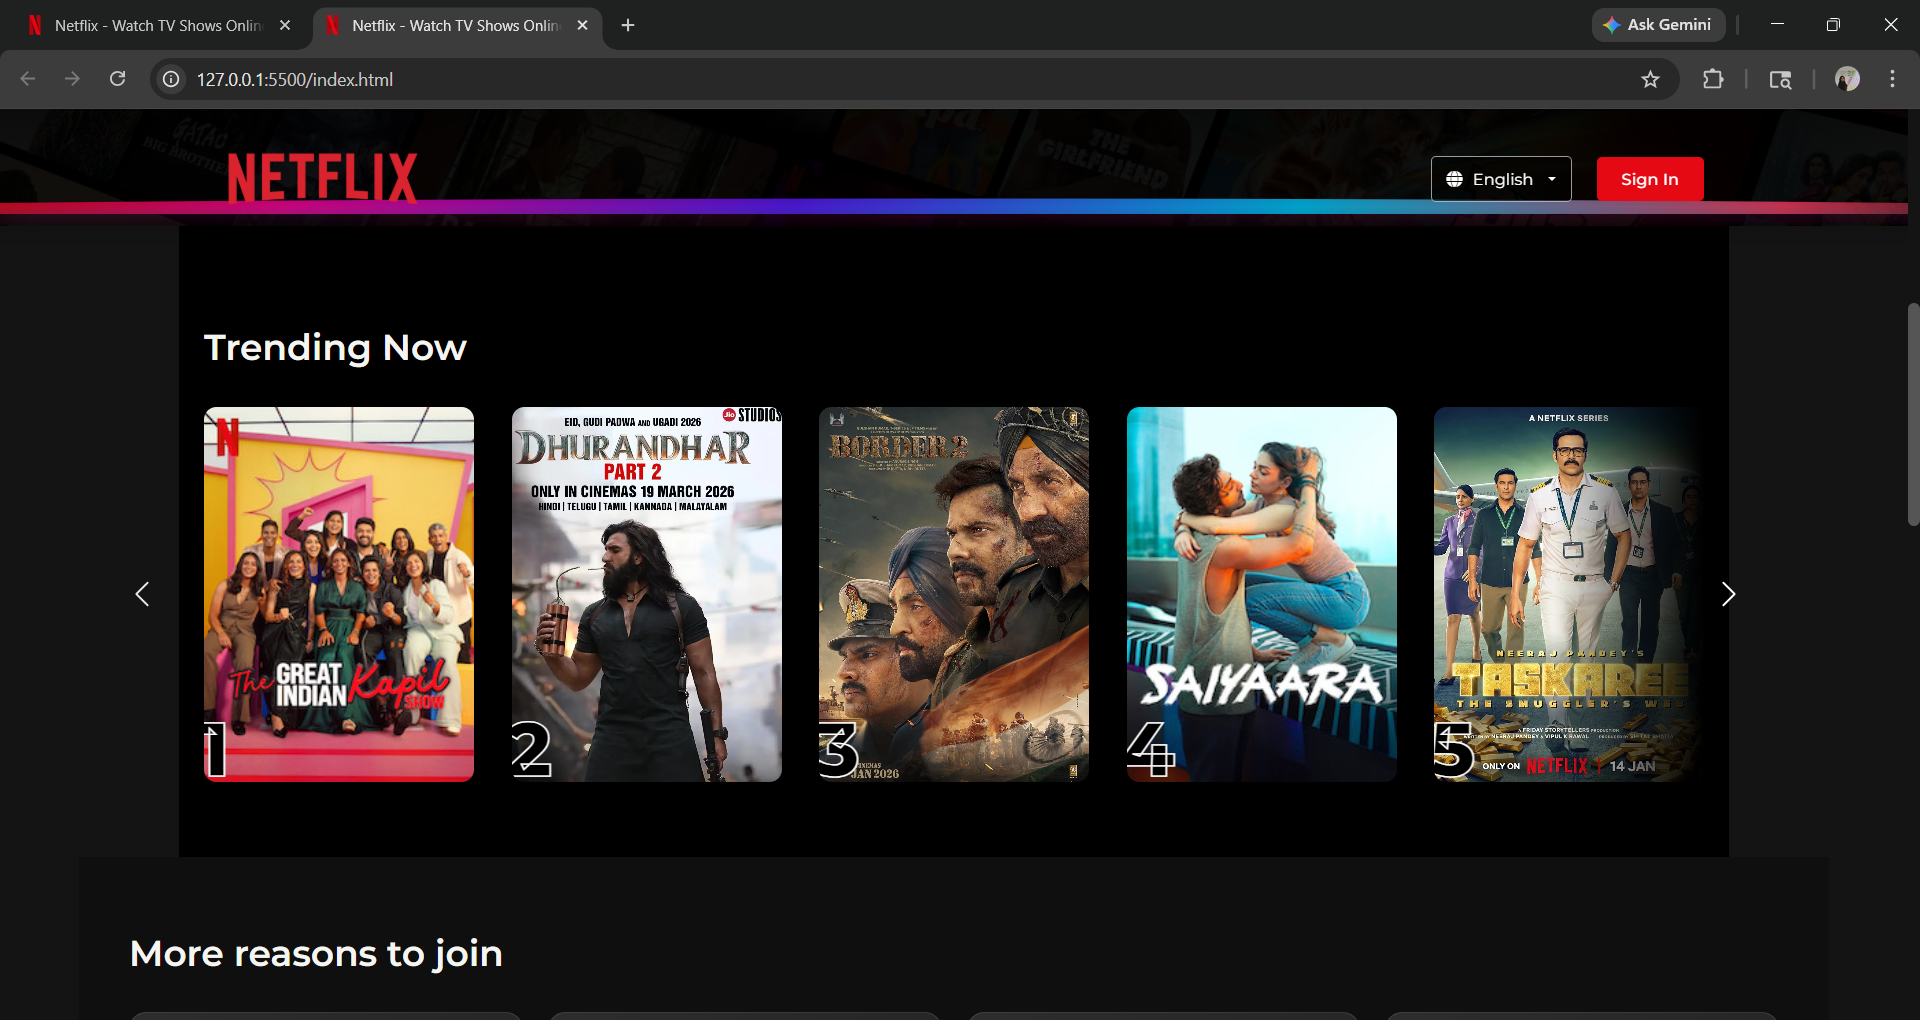
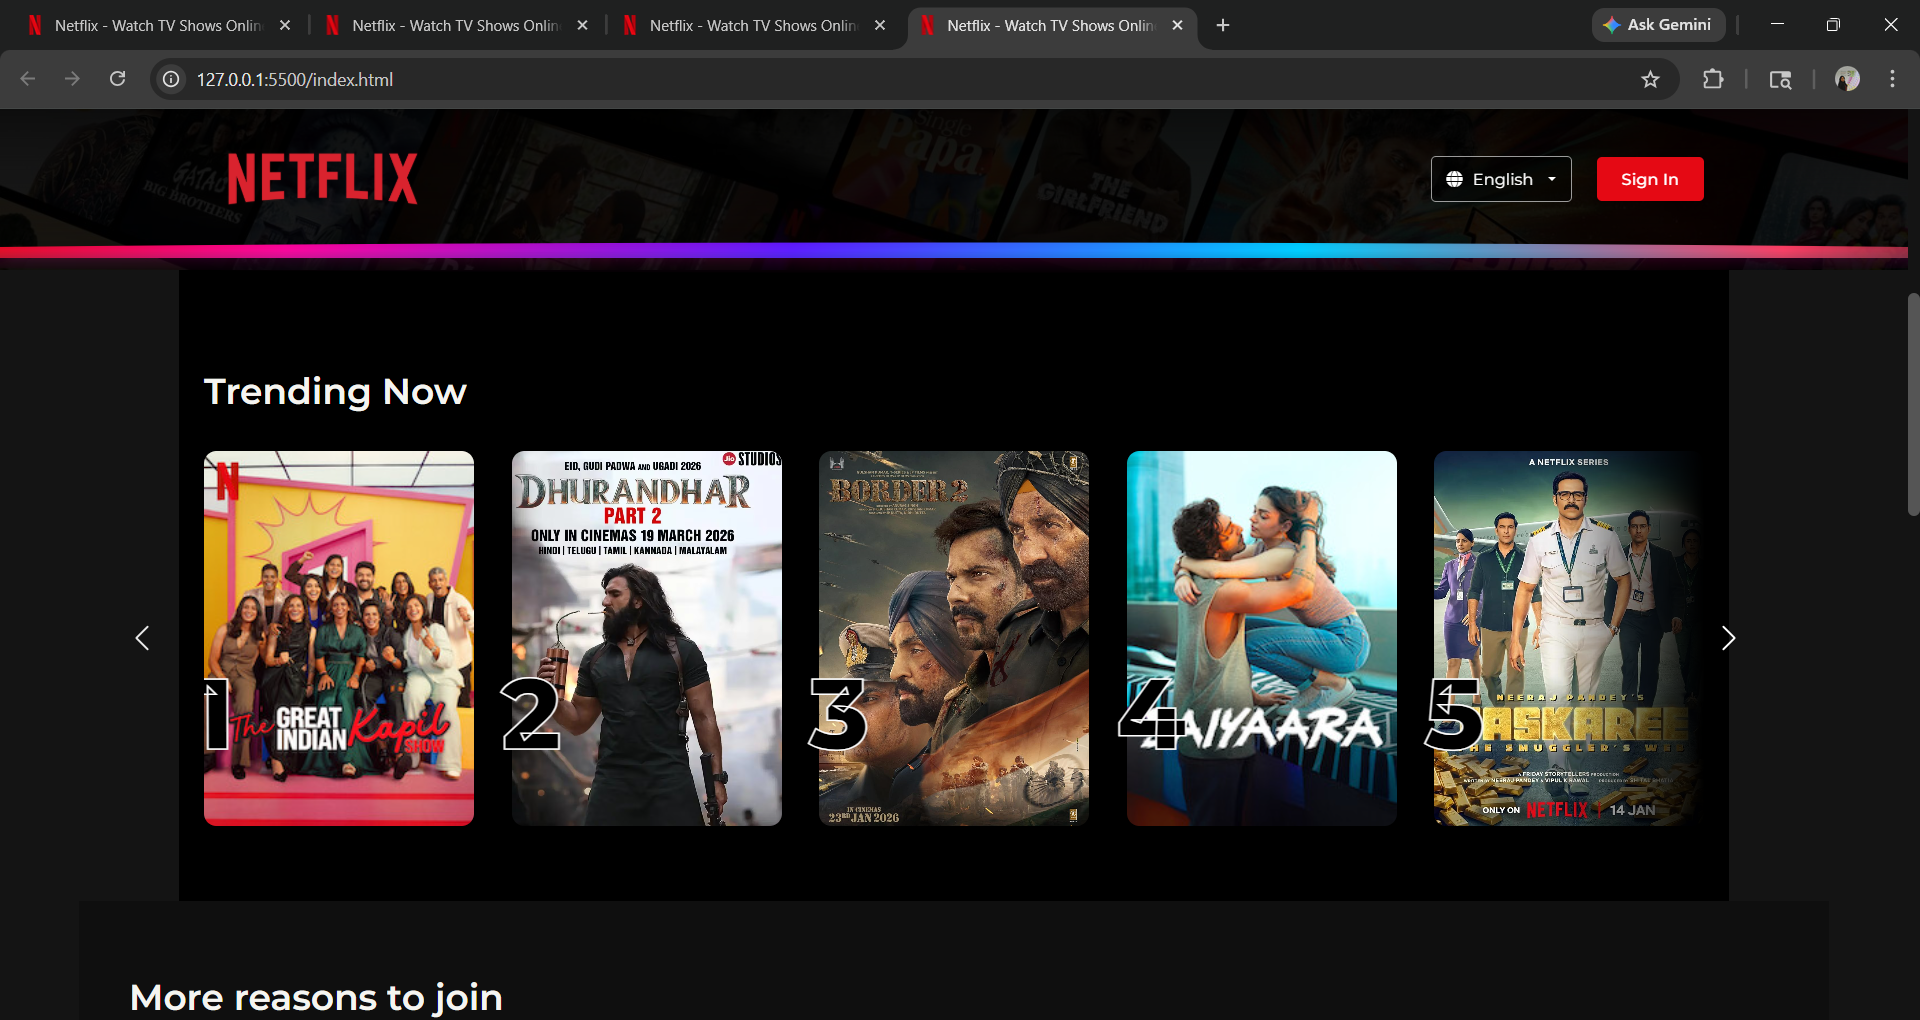
YES

diff --git a/style.css b/style.css
@@ -321,17 +321,23 @@ a {
 
 .movie-rank {
     position: absolute;
-    bottom: 30px;
-    left: -8px;
-    font-size: 4rem;
+    bottom: 50px;
+    left: -7px;
+    font-size: 5rem;
     font-weight: 900;
     color: #000000;
     -webkit-text-fill-color: #000000;
-    -webkit-text-stroke: 1px #ffffff;
+    
     line-height: 1;
     z-index: 10;
     letter-spacing: -0.05em;
-    text-shadow: none;
+     text-shadow: 
+        2px 2px 0 #000,
+        4px 4px 8px rgba(0,0,0,0.6);
+
+    line-height: 1;
+    z-index: 20;
+    letter-spacing: -0.05em;
 }
 
 
